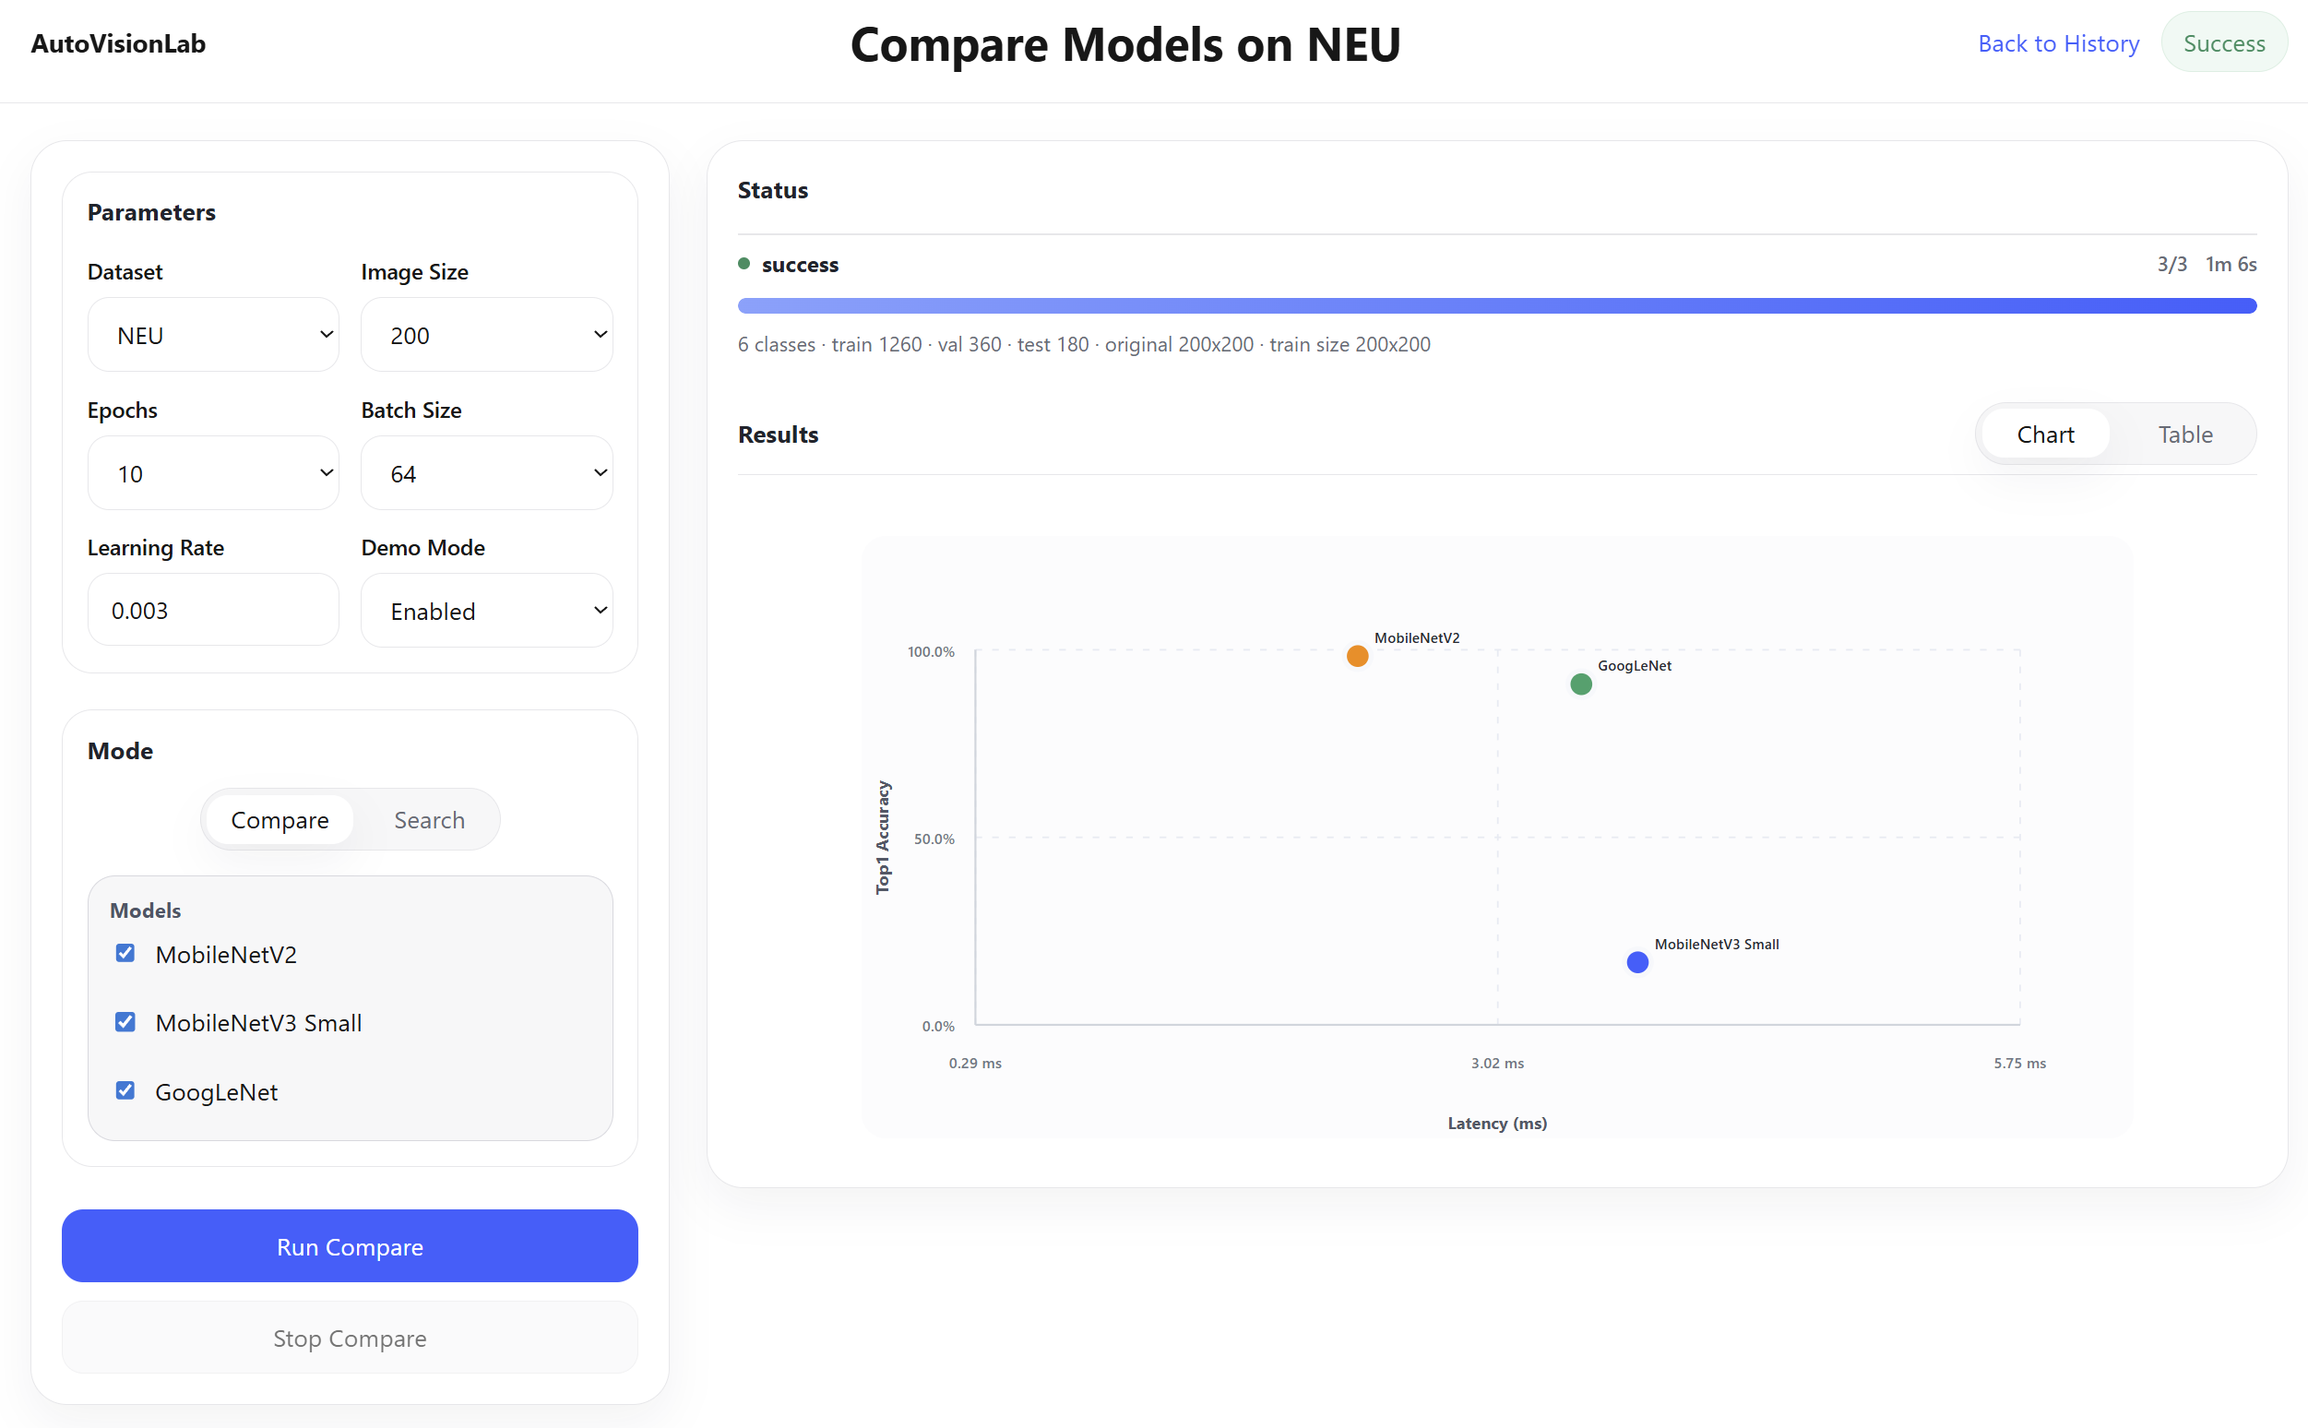
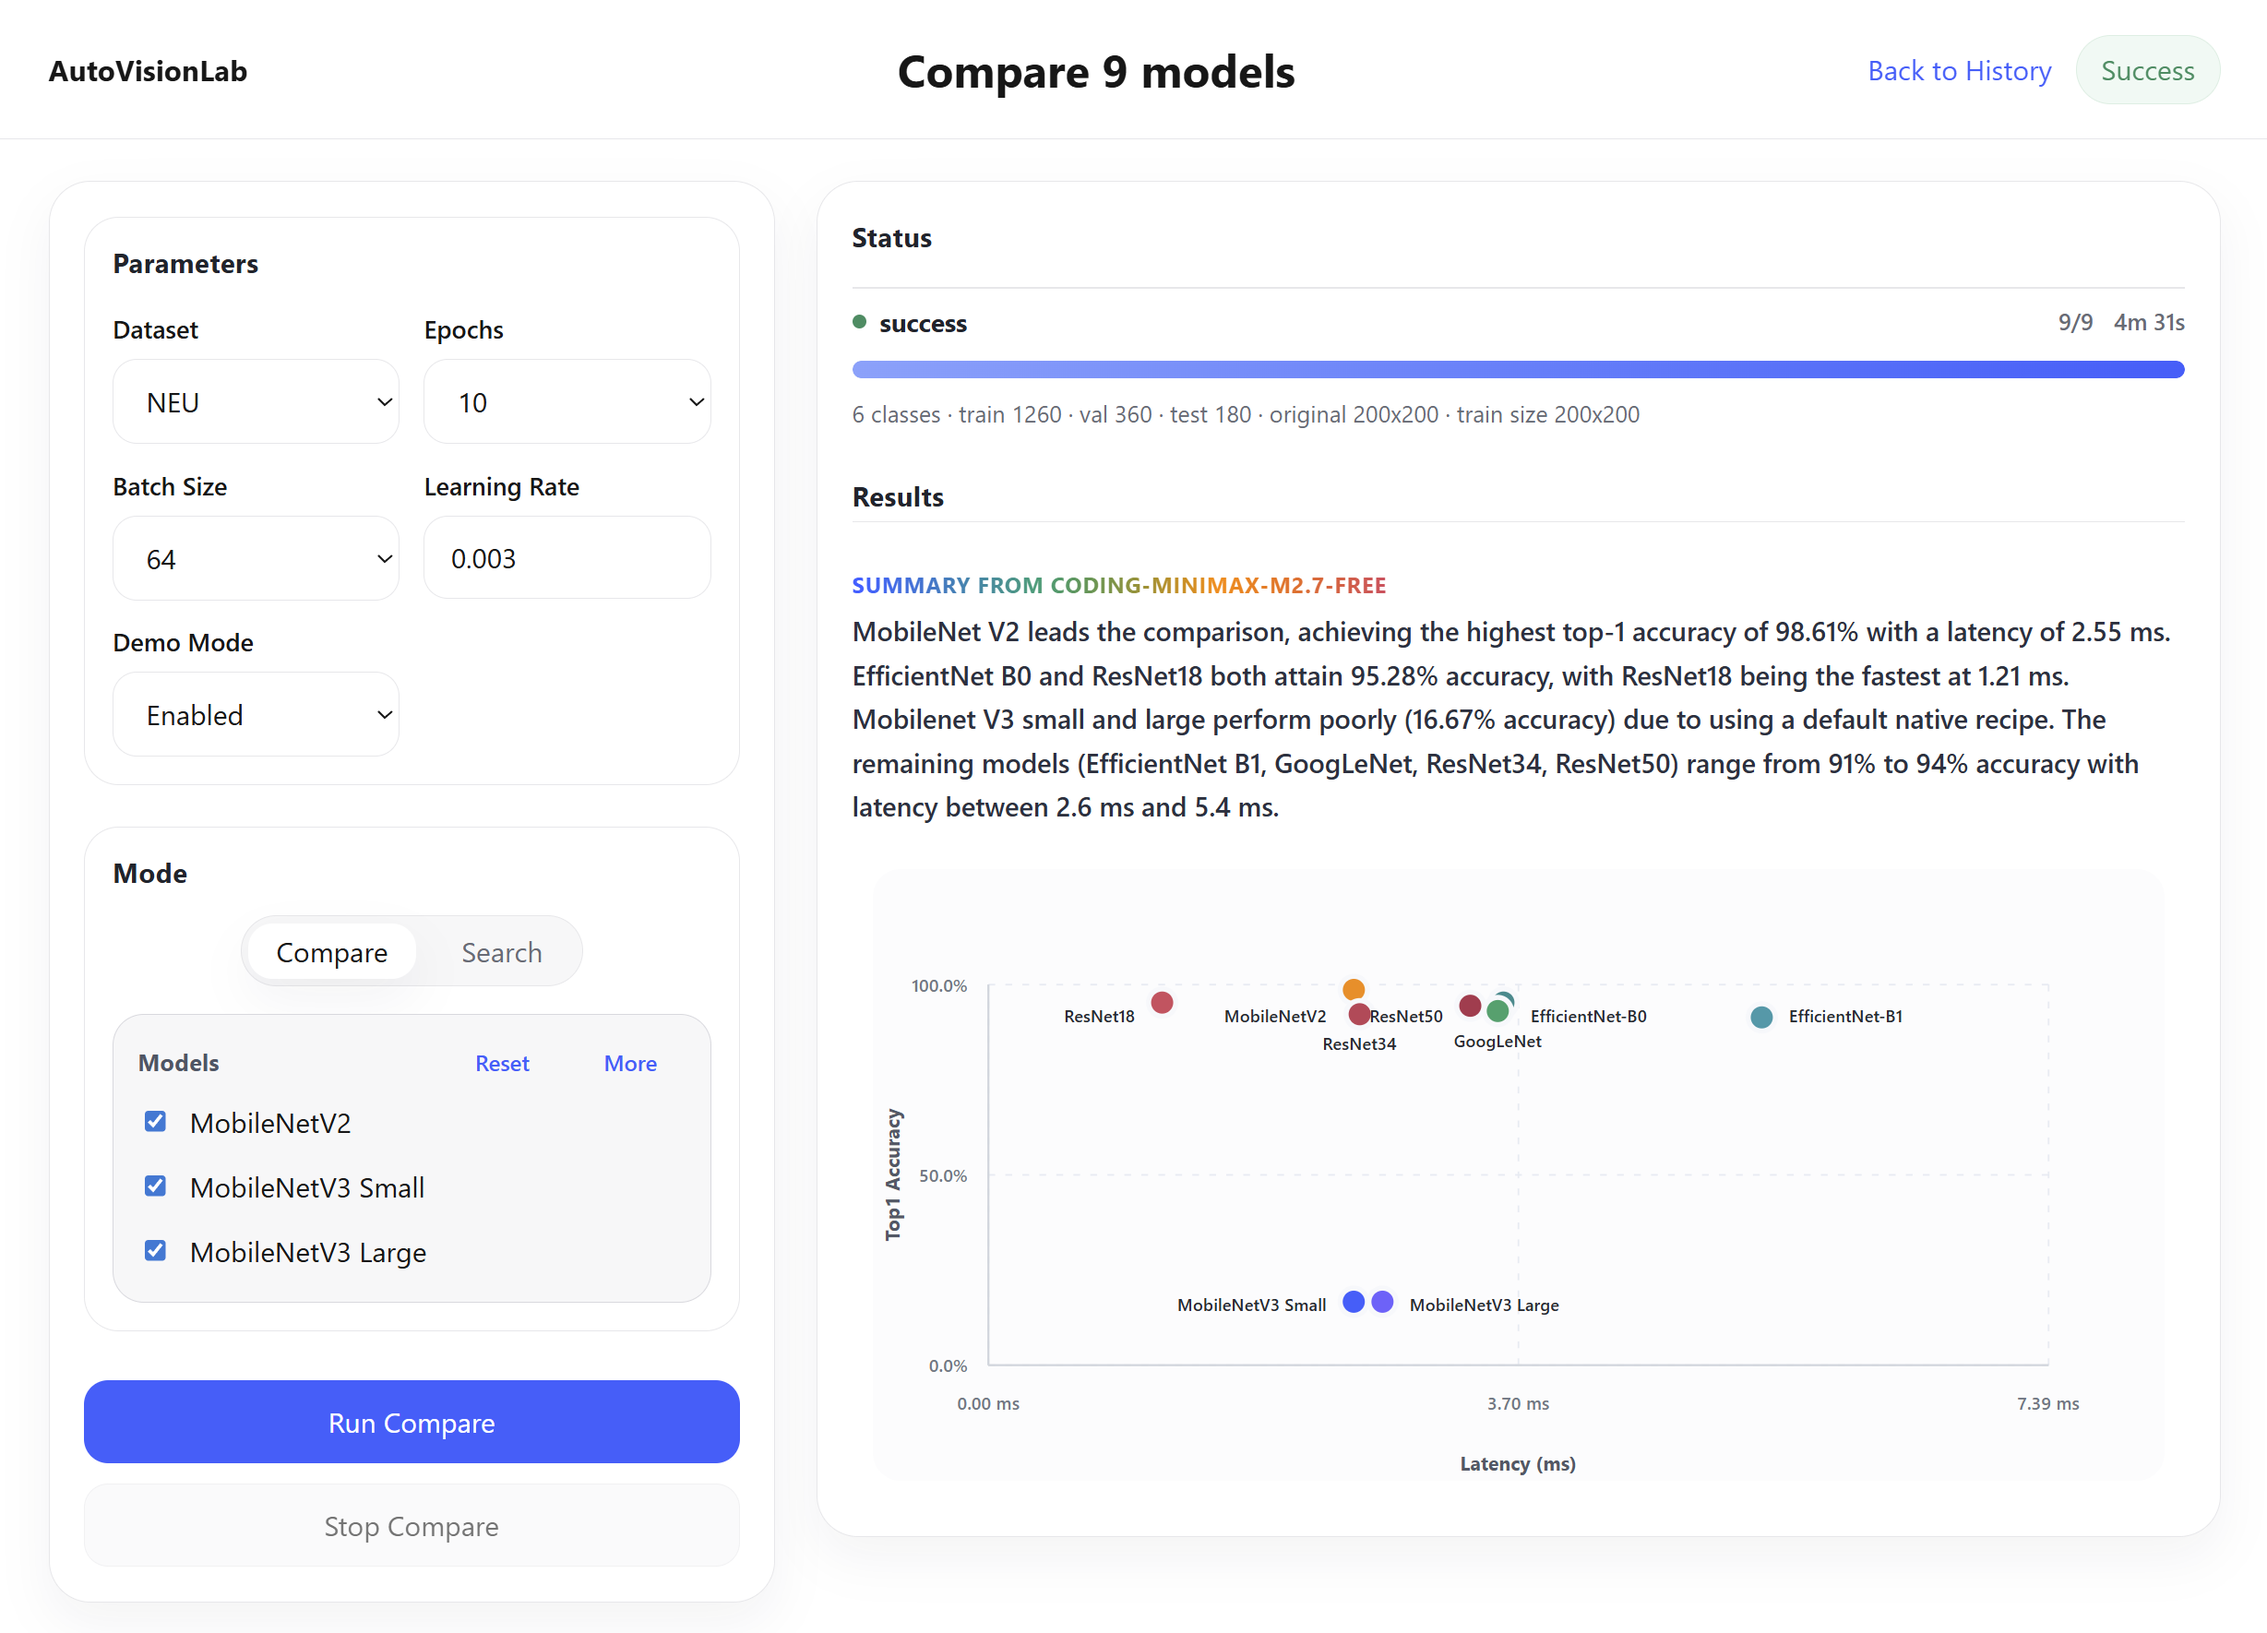
docs: refresh readme and dataset setup notes

diff --git a/data/README.md b/data/README.md
@@ -7,7 +7,6 @@
 ```text
 data/
   README.md
-  prepare_classification_split.py
   raw/
     <dataset_name>/
   classification/
@@ -24,73 +23,40 @@ data/
 - manifest 每行格式为 `relative/path/to/image<TAB>class_name`
 - 路径相对于对应数据集的 source 根目录
 
-## 通用分类切分脚本
+## NEU-CLS 切分
+
+`neu` 的最新原始结构是单层文件夹，文件名里包含类别前缀，例如：
+
+```text
+data/raw/NEU-CLS/
+  Cr_161.bmp
+  In_001.bmp
+  ...
+```
+
+因此可以直接运行专用切分脚本：
+
+```bash
+python3 data/prepare_neucls_split.py \
+  --source-root data/raw/NEU-CLS \
+  --dataset-name NEU \
+  --val-ratio 0.2 \
+  --test-ratio 0.1 \
+  --seed 42 \
+  --force
+```
 
 脚本：
 
-- [prepare_classification_split.py](prepare_classification_split.py)
+- [prepare_neucls_split.py](prepare_neucls_split.py)
 
-适用前提：
-
-- 输入源必须是按类别分文件夹的结构
-
-常用命令：
-
-```bash
-python3 data/prepare_classification_split.py \
-  --source-dir data/raw/your_dataset \
-  --dataset-name your_dataset \
-  --val-ratio 0.2 \
-  --test-ratio 0.1 \
-  --seed 42
-```
-
-如果输入目录名本身就想作为输出名，可以省略 `--dataset-name`。
-
-如果数据本来就在 `data/raw/<dataset_name>/` 下，也可以只传名字。
-
-默认行为：
-
-- 输出固定落到 `data/classification/<name>/`
-- 只生成 `train.txt`、`val.txt`、`test.txt`
-- 不复制原始图片
-- 按类别分层随机切分
-- 保留类别目录下的嵌套子目录结构
-- 如果输出已存在，需要加 `--force`
-
-## NEU-CLS 预处理
-
-`neu` 的原始结构为：
+这一步会直接生成：
 
 ```text
-data/raw/neu/
-  NEU-CLS/
-    train/train/images/
-    valid/valid/images/
+data/classification/NEU/
+  train.txt
+  val.txt
+  test.txt
 ```
-
-因此在运行通用 split 之前，需要先执行预处理：
-
-```bash
-python3 data/raw/neu/prepare_classification_source.py --force
-```
-
-预处理脚本：
-
-- [prepare_classification_source.py](raw/neu/prepare_classification_source.py)
-
-这一步会生成：
-
-```text
-data/raw/neu/classification_source/
-  crazing/
-  inclusion/
-  patches/
-  pitted_surface/
-  rolled-in_scale/
-  scratches/
-```
-
-之后再运行通用 split 脚本。
 
 ## 当前仓库中的数据

diff --git a/README.md b/README.md
@@ -1,17 +1,17 @@
 # AutoVisionLab
 
-Industrial vision model optimization still involves a lot of manual work: tuning parameters, running experiments, checking results, and iterating again. The real cost is often not the problem itself, but the repetition, scattered comparisons, and constant tool switching.
-
-AutoVisionLab focuses on that repetitive part of the workflow. It brings AI into the training and experimentation loop so results are collected, structured, and fed into a shared analysis flow. The system compares past runs, summarizes trends, and suggests the next direction to explore.
-
-Engineers still define the goals, constraints, and acceptance criteria, while AI handles the repetitive but necessary analysis and iteration work. The result is a workflow that is easier to trace, compare, and build on over time.
-
 English | [中文](README.zh.md)
 
 ![React](https://img.shields.io/badge/Frontend-React-61DAFB?logo=react&logoColor=white)
 ![FastAPI](https://img.shields.io/badge/Backend-FastAPI-009688?logo=fastapi&logoColor=white)
 ![PyTorch](https://img.shields.io/badge/Training-PyTorch-EE4C2C?logo=pytorch&logoColor=white)
 ![SQLite](https://img.shields.io/badge/Database-SQLite-003B57?logo=sqlite&logoColor=white)
+
+Industrial vision model optimization still involves a lot of manual work: tuning parameters, running experiments, checking results, and iterating again. The real cost is often not the problem itself, but the repetition, scattered comparisons, and constant tool switching.
+
+AutoVisionLab focuses on that repetitive part of the workflow. It brings AI into the training and experimentation loop so results are collected, structured, and fed into a shared analysis flow. The system compares past runs, summarizes trends, and suggests the next direction to explore.
+
+Engineers still define the goals, constraints, and acceptance criteria, while AI handles the repetitive but necessary analysis and iteration work. The result is a workflow that is easier to trace, compare, and build on over time.
 
 ![Task page](docs/screenshots/task.png)
 

diff --git a/README.zh.md b/README.zh.md
@@ -1,17 +1,17 @@
 # AutoVisionLab
 
-工业视觉里的模型优化，很多时候仍然是偏手工的工作：调参数、跑实验、看结果、再改一轮。真正耗时的往往不是问题本身，而是重复试验、零散对比和来回切换工具。
-
-AutoVisionLab 关注的就是这一段重复流程。它把 AI 接入训练和实验闭环，让实验结果在完成后被自动收集、结构化，并进入统一的分析流程。系统会基于已有实验做比较、总结趋势，并给出下一步探索方向。
-
-工程师仍然负责定义目标、约束和判断标准，AI 负责执行重复但必要的分析与迭代工作。这样实验过程会更容易追踪、比较和持续积累。
-
 [English](README.md) | 中文
 
 ![React](https://img.shields.io/badge/前端-React-61DAFB?logo=react&logoColor=white)
 ![FastAPI](https://img.shields.io/badge/后端-FastAPI-009688?logo=fastapi&logoColor=white)
 ![PyTorch](https://img.shields.io/badge/训练-PyTorch-EE4C2C?logo=pytorch&logoColor=white)
 ![SQLite](https://img.shields.io/badge/数据库-SQLite-003B57?logo=sqlite&logoColor=white)
+
+工业视觉里的模型优化，很多时候仍然是偏手工的工作：调参数、跑实验、看结果、再改一轮。真正耗时的往往不是问题本身，而是重复试验、零散对比和来回切换工具。
+
+AutoVisionLab 关注的就是这一段重复流程。它把 AI 接入训练和实验闭环，让实验结果在完成后被自动收集、结构化，并进入统一的分析流程。系统会基于已有实验做比较、总结趋势，并给出下一步探索方向。
+
+工程师仍然负责定义目标、约束和判断标准，AI 负责执行重复但必要的分析与迭代工作。这样实验过程会更容易追踪、比较和持续积累。
 
 ![Task 页](docs/screenshots/task.png)
 
